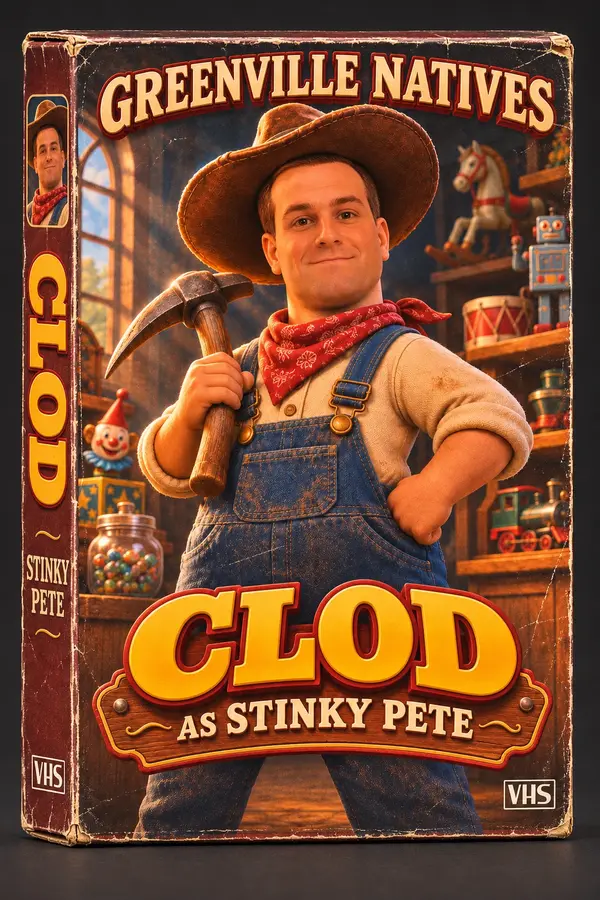
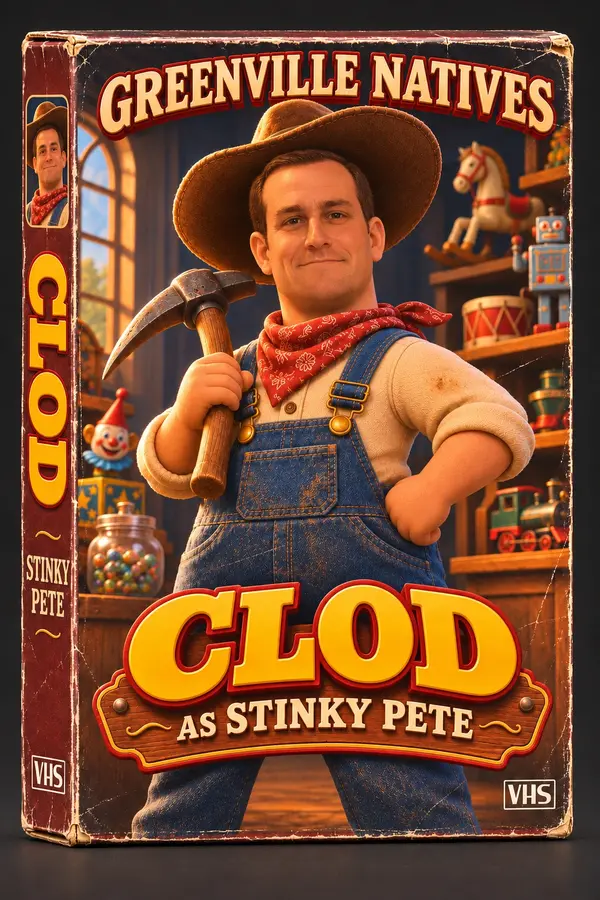
Week 10: Trey and Clod covers, and a header rebuilt from the real art
Trey as Judge Claude Frollo was the last recast cover outstanding, and
Clod's Stinky Pete art is refreshed. STALE_ART is now empty: all ten
covers agree with their write-up, checked one by one.

The header banner still showed the old cast, so it is rebuilt from the ten
current covers in power-ranking order. The original title block is reused
unchanged, cropped from the old banner, so the typography is identical.
That keeps the 2000x397 frame and drops it from 227 KB to 128 KB.

It is a clean composite rather than the 3D video-store scene the old
banner had. Easy to swap if a regenerated shelf render turns up.

Claude-Session: https://claude.ai/code/session_01VmCTUN2fTg16nk1rWDscBf

diff --git a/GN-site/writeups/week10-2026-animated-movie-villains.html b/GN-site/writeups/week10-2026-animated-movie-villains.html
@@ -247,7 +247,7 @@ h3 .mgr{font-size:.82em;vertical-align:.06em;}
     </section>
   </article>
   <article class="entry">
-    <figure class="poster"><img src="img/week10-2026-animated-movie-villains/covers/trey.webp" alt="VHS cover: Trey Wilder as Jafar" width="400" height="600" loading="lazy" decoding="async" onerror="this.onerror=null;this.src='img/managers/wilder.webp'"></figure>
+    <figure class="poster"><img src="img/week10-2026-animated-movie-villains/covers/trey.webp" alt="VHS cover: Trey Wilder as Judge Claude Frollo" width="400" height="600" loading="lazy" decoding="async" onerror="this.onerror=null;this.src='img/managers/wilder.webp'"></figure>
     <div class="hd"><div class="rk">3</div>
       <div><p class="champ">Judge Claude Frollo</p><h3><span class="mgr mgr-wilder">Trey Wilder</span></h3><p class="team">Week 10 &middot; <span class="mv dn">▼ down 1 from 2</span></p></div>
     </div>
@@ -408,7 +408,7 @@ h3 .mgr{font-size:.82em;vertical-align:.06em;}
   <h2 id="week11">Week 11 previews</h2>
   <article class="mu">
     <div class="mu-hd"><div><h3><span class="mgr mgr-wilder">Trey Wilder</span></h3><p>8–2</p></div><span class="vs">VS</span><div class="rt"><h3><span class="mgr mgr-hardee">Rex</span></h3><p>8–2</p></div></div>
-    <div class="mu-art"><img class="l" src="img/week10-2026-animated-movie-villains/covers/trey.webp" alt="VHS cover: Trey Wilder as Jafar" loading="lazy" decoding="async" onerror="this.onerror=null;this.src='img/managers/wilder.webp'"><span class="ser">Rex leads 13–12</span><img class="r" src="img/week10-2026-animated-movie-villains/covers/rex.webp" alt="VHS cover: Rex as Gaston" loading="lazy" decoding="async" onerror="this.onerror=null;this.src='img/managers/hardee.webp'"></div>
+    <div class="mu-art"><img class="l" src="img/week10-2026-animated-movie-villains/covers/trey.webp" alt="VHS cover: Trey Wilder as Judge Claude Frollo" loading="lazy" decoding="async" onerror="this.onerror=null;this.src='img/managers/wilder.webp'"><span class="ser">Rex leads 13–12</span><img class="r" src="img/week10-2026-animated-movie-villains/covers/rex.webp" alt="VHS cover: Rex as Gaston" loading="lazy" decoding="async" onerror="this.onerror=null;this.src='img/managers/hardee.webp'"></div>
     <p class="mu-blurb">Two 8–2 teams meet with a guaranteed playoff berth available to the winner. Rex leads the all-time series 13–12, but his injury concerns now overlap with a difficult bye week; Trey gets an opportunity to even the series while Rex tries to demonstrate that 57.6 was an isolated incident.</p>
     <div class="mu-sec"><p class="lbl">Head-to-head &middot; the history</p><div class="r"><span>(12-13)</span><b>Overall Record</b><span>(13-12)</span></div><div class="r"><span>48%</span><b>Winning %</b><span>52%</span></div><div class="r"><span>(11-11)</span><b>Regular Season Record</b><span>(11-11)</span></div><div class="r"><span>(1-2)</span><b>Playoff Record</b><span>(2-1)</span></div><div class="r"><span>3134</span><b>Points Scored</b><span>3110.1</span></div><div class="r"><span>156</span><b>High Score</b><span>147.2</span></div><div class="r"><span>70.9</span><b>Low Score</b><span>77.7</span></div><div class="r"><span>125.4</span><b>PPG</b><span>124.4</span></div><div class="r"><span>111.7</span><b>Regular Season PPG</b><span>108.8</span></div><div class="r"><span>225.7</span><b>Playoff PPG</b><span>238.8</span></div><div class="r"><span>0</span><b>Current Winning Streak</b><span>1</span></div><div class="r"><span>2</span><b>Longest Winning Streak</b><span>4</span></div><div class="r"><span>23.9</span><b>Point Dif</b><span>-23.9</span></div><div class="r"><span>71.4</span><b>Max Point Dif</b><span>44</span></div></div>
     <div class="mu-sec"><p class="lbl">Matchup marks &middot; the margins</p><div class="r"><span>0</span><b>Buzzer Beater</b><span>0</span></div><div class="r"><span>0</span><b>Nail Biter</b><span>1</span></div><div class="r"><span>5</span><b>Dunked On</b><span>3</span></div><div class="r"><span>2</span><b>Blow Out</b><span>1</span></div><div class="r"><span>0</span><b>Slug Fest</b><span>2</span></div><div class="r"><span>1</span><b>Pillow Fight</b><span>3</span></div></div>
